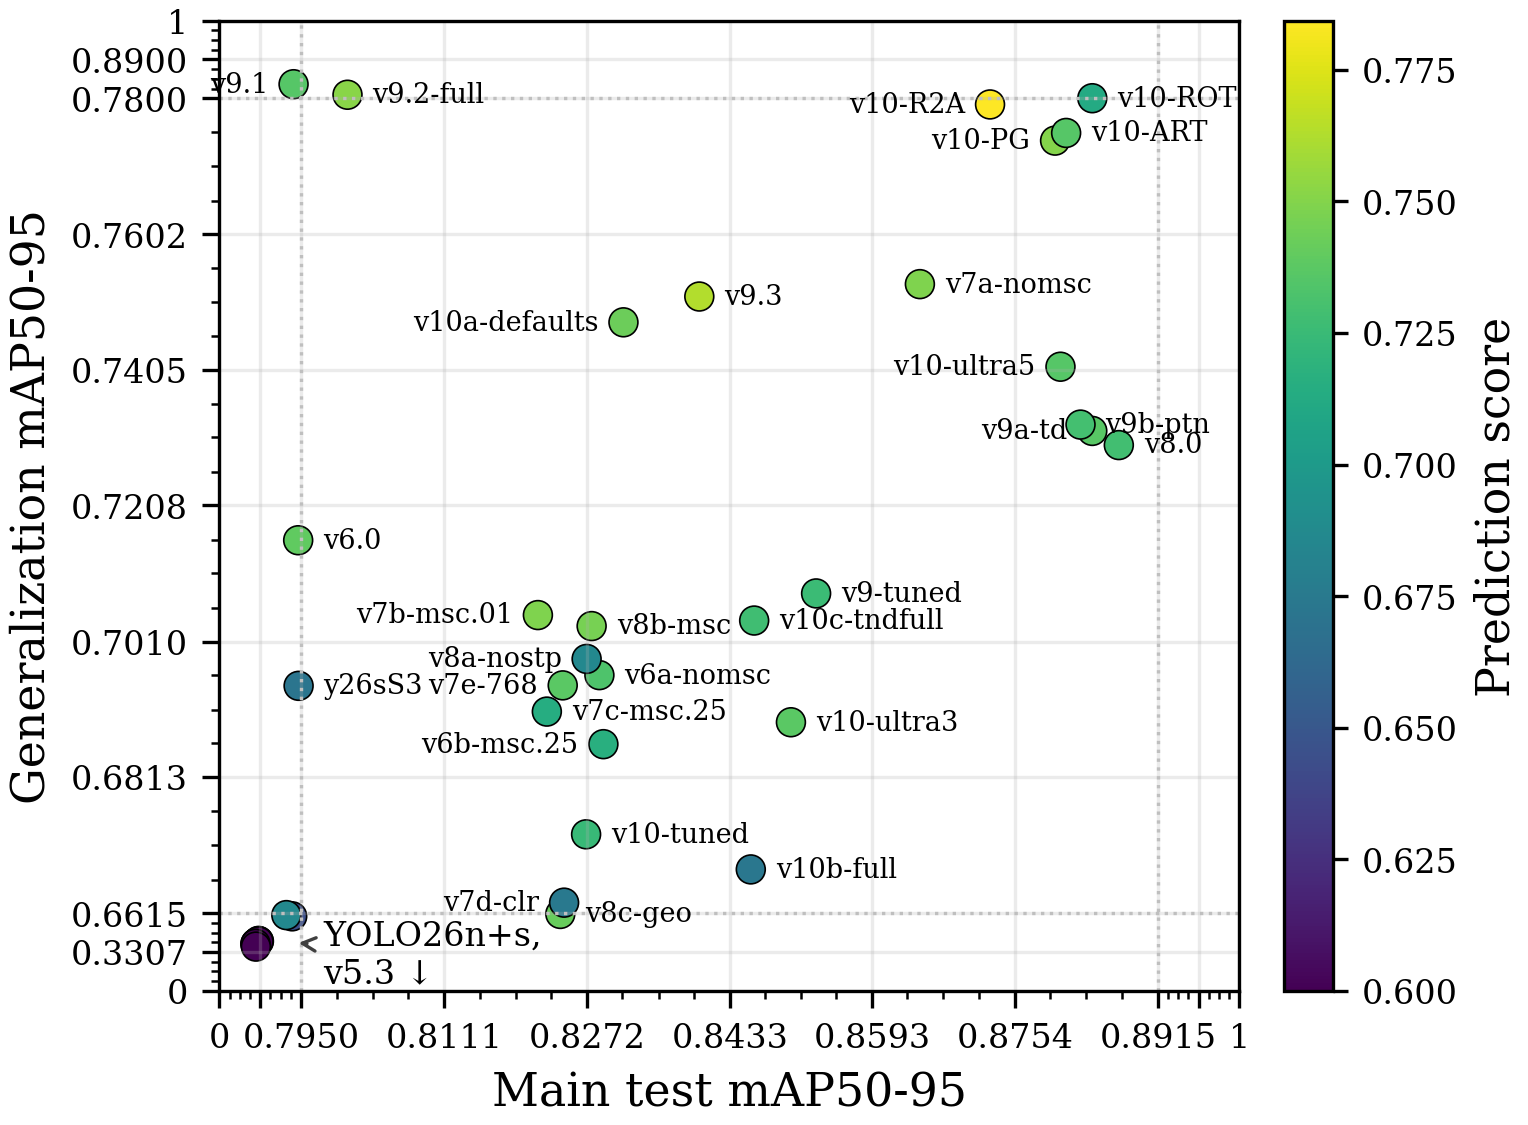
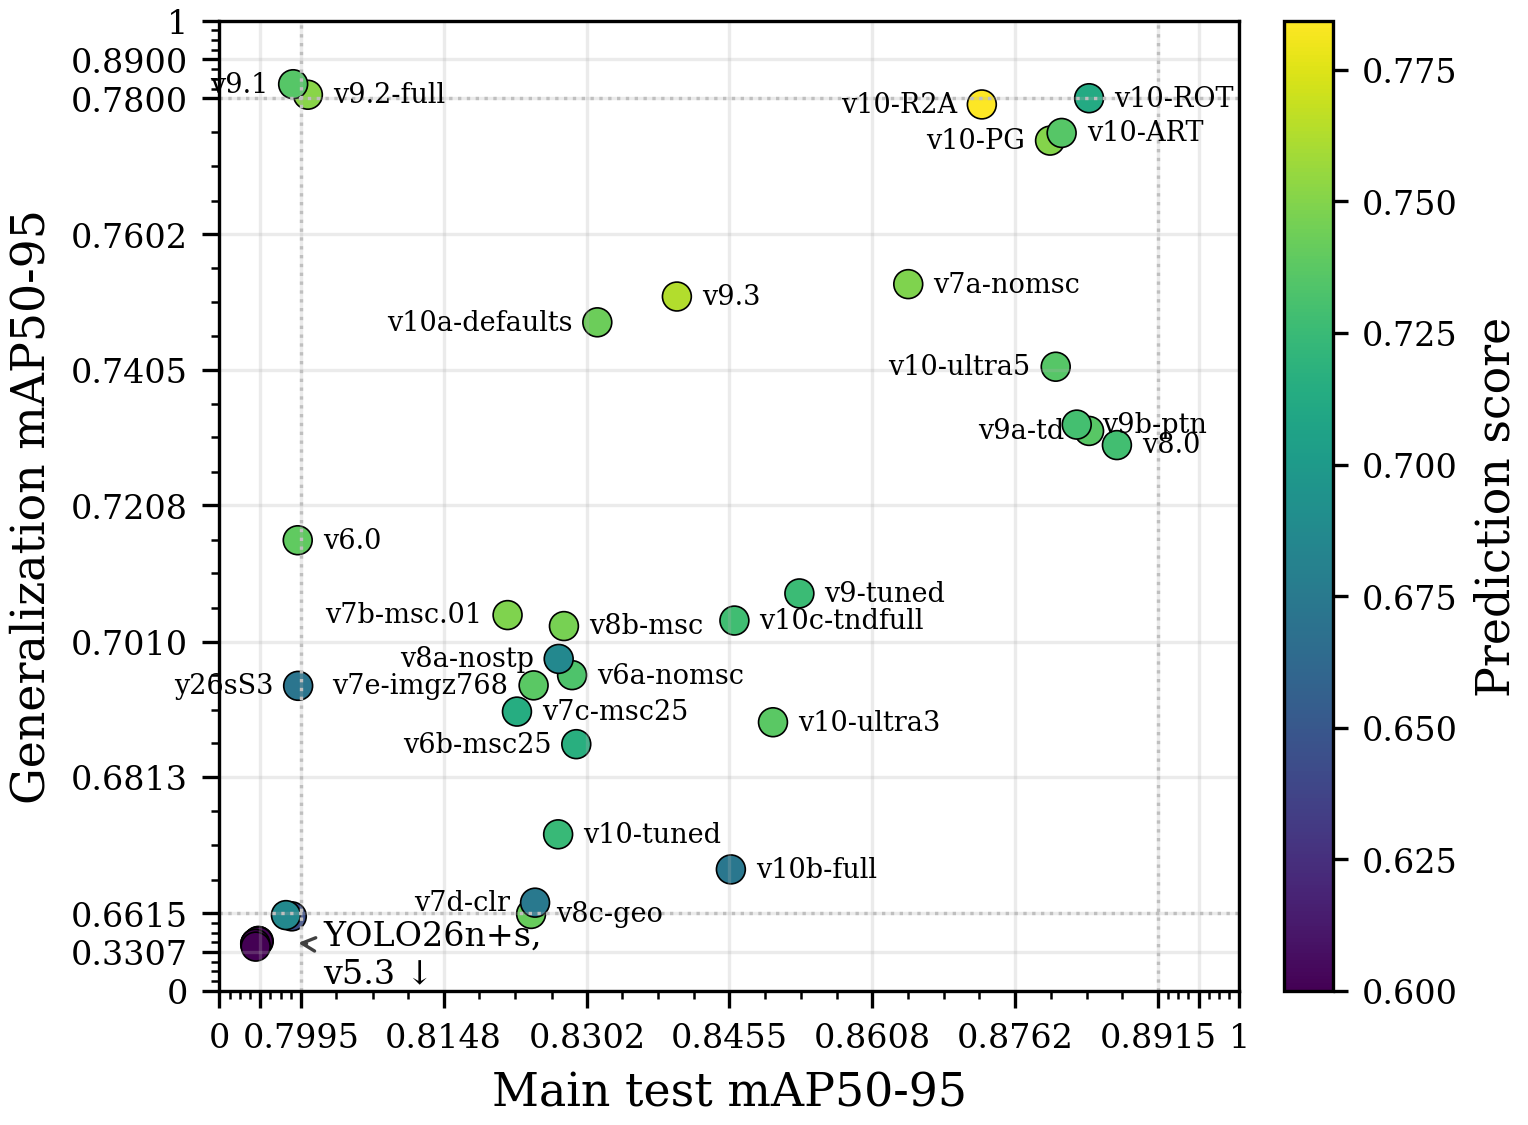
asdf

diff --git a/models/obb/experiments/thesis_plots/make_thesis_model_plots.py b/models/obb/experiments/thesis_plots/make_thesis_model_plots.py
@@ -132,11 +132,11 @@ MODEL_LABELS = {
     "v8c-mildgeometric": "v8c-geo",
     "v7a-ft-nomosaic-lr0002": "v7a-nomsc",
     "v7b-ft-mosaic010": "v7b-msc.01",
-    "v7c-ft-mosaic025-lowerase": "v7c-msc.25",
+    "v7c-ft-mosaic025-lowerase": "v7c-msc25",
     "v7d-color-robust": "v7d-clr",
-    "v7e-imgsz768-nomosaic": "v7e-768",
+    "v7e-imgsz768-nomosaic": "v7e-imgz768",
     "v6-nomosaic": "v6a-nomsc",
-    "v6-025mosaic": "v6b-msc.25",
+    "v6-025mosaic": "v6b-msc25",
     "v6": "v6.0",
     "v5-4": "v5.4",
     "v5-3": "v5.3",
@@ -1016,7 +1016,7 @@ def main() -> int:
                 "02b_main_vs_generalization_scatter_v6plus.png",
                 show_all_names=True,
                 skip_label_models=GENERALIZATION_V6PLUS_HIDE_LABELS,
-                focused_axis_ranges=((0.795,0.8915),(0.6615,0.78)),
+                focused_axis_ranges=((0.7995,0.8915),(0.6615,0.78)),
                 label_min_model_version=None,
                 hide_focused_low_clump_labels=True,
                 clump_label="YOLO26n+s,\nv5.3 ↓",
@@ -1031,7 +1031,7 @@ def main() -> int:
                     ((0.8230,0.675),(0.83,0.695)), # window for v7e & v6b
                     ((0.8240,0.6625),(0.8250,0.6650)), # v7d.clr,0.8246,0.6630
                     ((0.7220,0.8195),(0.7225,0.8200)), # v9.1,0.7223,0.8197
-
+                    ((0.7710,0.6940),(0.7720,0.6950)),
 
 #                   y26n.0,0.3552,0.3768
 #                   y26s.0,0.3805,0.4209
